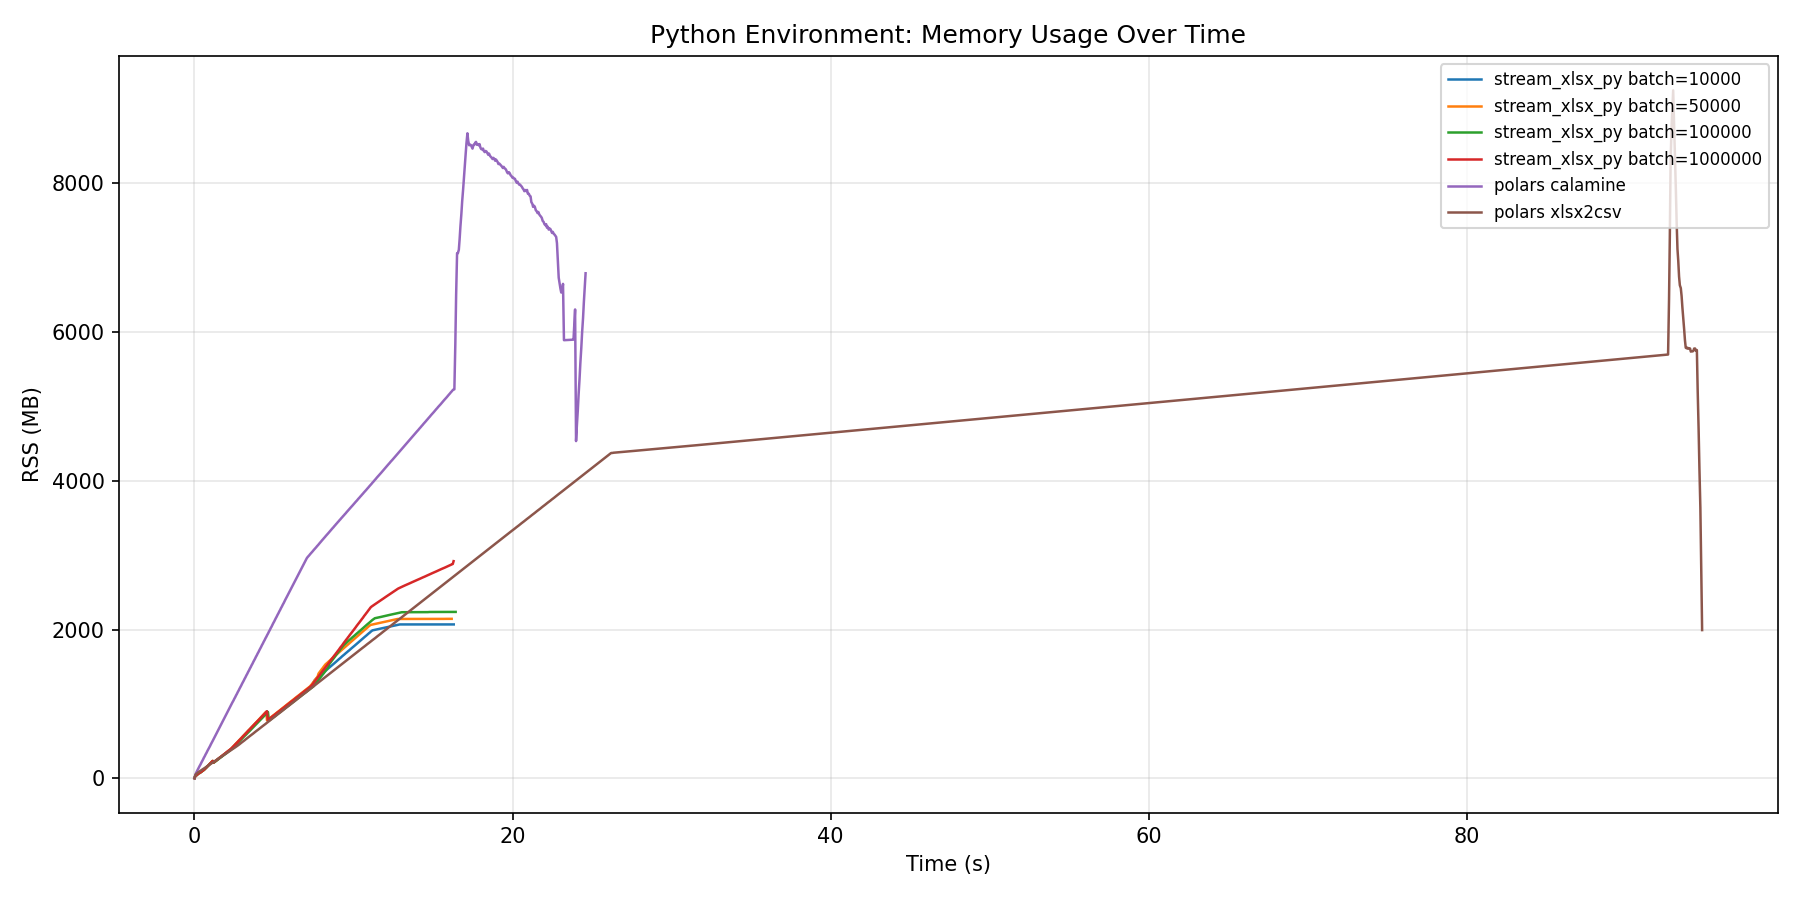
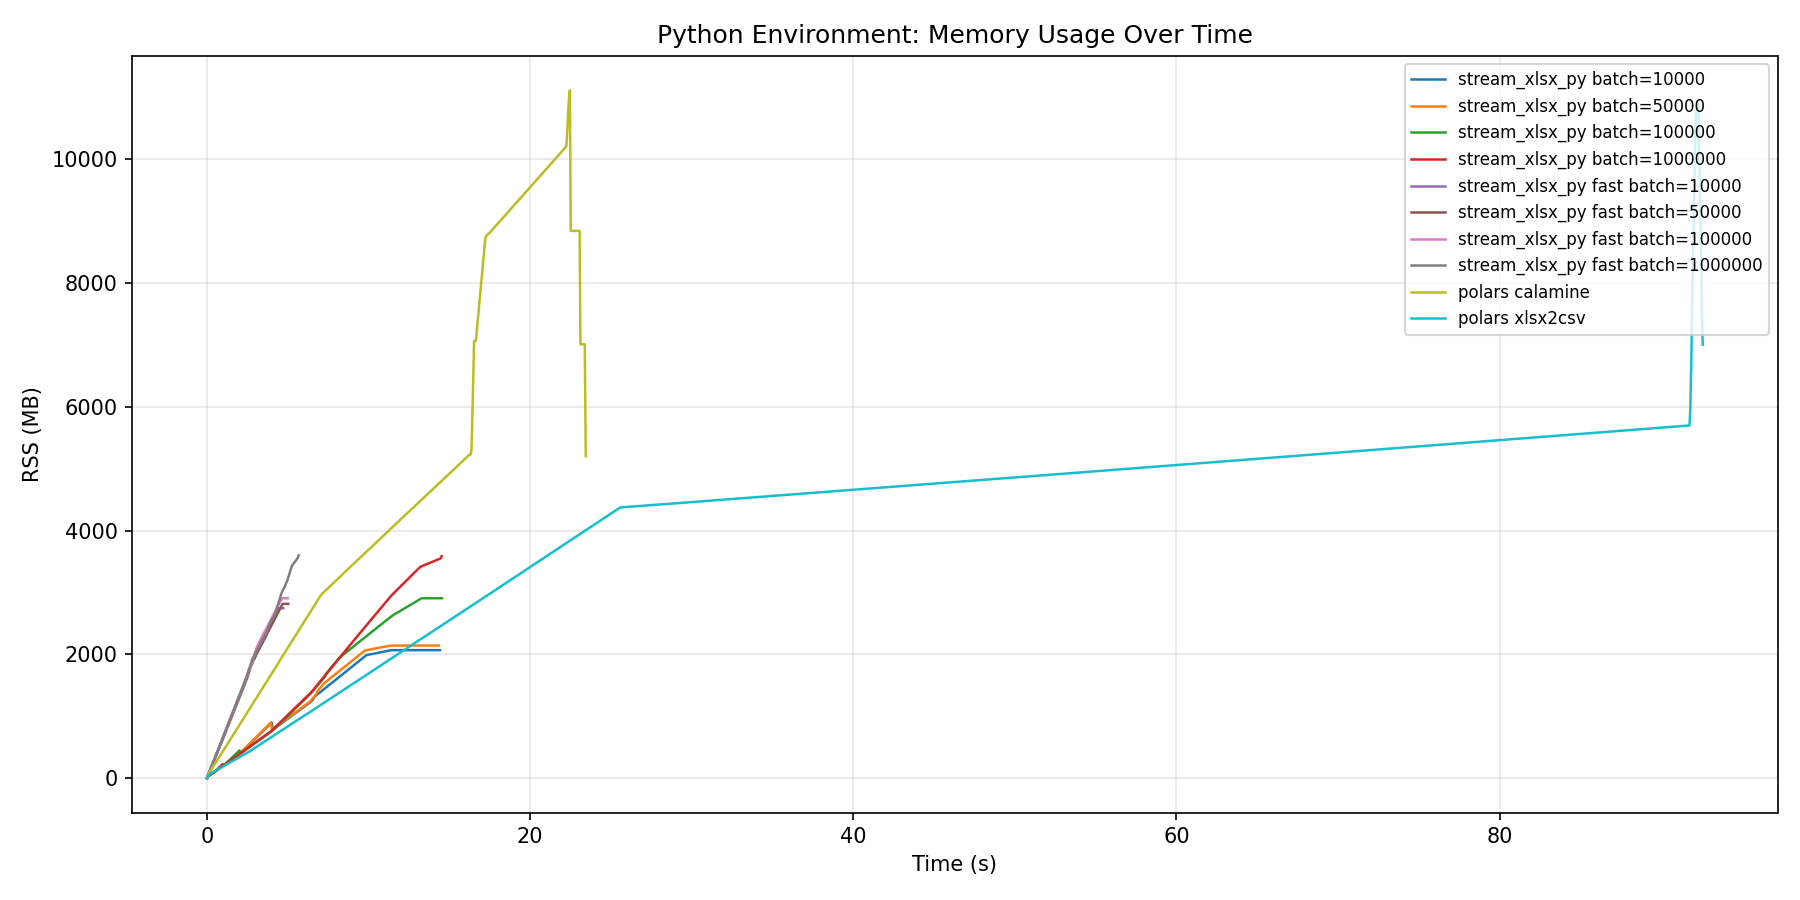
Bump version to 0.3.0 and add fast mode support

diff --git a/benchmark_python.py b/benchmark_python.py
@@ -76,6 +76,15 @@ print("done")
 '''
 
 
+def make_test_code_stream_xlsx_fast(batch_size: int) -> str:
+    return f'''
+import stream_xlsx_py as sx
+for df in sx.read_xlsx("{TEST_FILE}", batch_size={batch_size}, fast=True):
+    pass
+print("done")
+'''
+
+
 def make_test_code_polars(engine: str) -> str:
     return f'''
 import polars as pl
@@ -96,6 +105,19 @@ def main():
     for bs in [10_000, 50_000, 100_000, 1_000_000]:
         name = f"stream_xlsx_py batch={bs}"
         code = make_test_code_stream_xlsx(bs)
+        res = run_subprocess_test(name, code)
+        results.append(res)
+        print(
+            f"    {'✅' if res['returncode'] == 0 else '❌'} {name}: {res['elapsed_sec']:.2f}s  {res['peak_rss_mb']:.1f}MB"
+        )
+        if res["stderr"]:
+            print(f"       stderr: {res['stderr'][:200]}")
+
+    # 1.5 stream_xlsx_py fast 模式
+    print("\n=== stream_xlsx_py fast ===")
+    for bs in [10_000, 50_000, 100_000, 1_000_000]:
+        name = f"stream_xlsx_py fast batch={bs}"
+        code = make_test_code_stream_xlsx_fast(bs)
         res = run_subprocess_test(name, code)
         results.append(res)
         print(
@@ -127,8 +149,8 @@ def main():
     )
 
     # Save data
-    out_dir = Path("benchmark_python_plots")
-    out_dir.mkdir(exist_ok=True)
+    out_dir = Path("docs/benchmark")
+    out_dir.mkdir(parents=True, exist_ok=True)
 
     with open("benchmark_python.json", "w") as f:
         json.dump(results, f, indent=2)

diff --git a/README.md b/README.md
@@ -148,17 +148,23 @@ for df in reader:
 
 | 方案 | 时间 | 峰值内存 | 备注 |
 |------|------|---------|------|
-| **stream_xlsx_py (bs=10000)** | **16.37 s** | **2,068 MB** | 流式,推荐配置 |
-| stream_xlsx_py (bs=50000) | 16.22 s | 2,143 MB | 流式 |
-| stream_xlsx_py (bs=100000) | 16.48 s | 2,237 MB | 流式 |
-| stream_xlsx_py (bs=1000000) | 16.35 s | 2,919 MB | 全量加载 |
-| polars + calamine | 24.66 s | 8,672 MB | `pl.read_excel(engine="calamine")` |
-| polars + xlsx2csv | 95.00 s | 9,249 MB | `pl.read_excel(engine="xlsx2csv")` |
+| **stream_xlsx_py fast (bs=10000)** | **4.77 s** | **2,746 MB** | **推荐:fast + 流式** |
+| stream_xlsx_py fast (bs=50000) | 5.09 s | 2,817 MB | fast + 流式 |
+| stream_xlsx_py fast (bs=100000) | 5.05 s | 2,907 MB | fast + 流式 |
+| stream_xlsx_py fast (bs=1000000) | 5.73 s | 3,599 MB | fast + 全量 |
+| stream_xlsx_py (bs=10000) | 14.48 s | 2,068 MB | default + 流式 |
+| stream_xlsx_py (bs=50000) | 14.40 s | 2,143 MB | default + 流式 |
+| stream_xlsx_py (bs=100000) | 14.59 s | 2,907 MB | default + 流式 |
+| stream_xlsx_py (bs=1000000) | 14.57 s | 3,586 MB | default + 全量 |
+| polars + calamine | 23.50 s | 11,109 MB | `pl.read_excel(engine="calamine")` |
+| polars + xlsx2csv | 92.64 s | 10,902 MB | `pl.read_excel(engine="xlsx2csv")` |
 
 **结论**:
-- `stream_xlsx_py` 比 `polars+calamine` **快 1.5x**,内存 **低 76%**
-- 比 `polars+xlsx2csv` **快 5.8x**,内存 **低 78%**
-- 内存曲线(注意 polars 峰值 8-9 GB vs stream_xlsx_py 稳定 2 GB):
+- **fast 模式比 default 快 ~3x**(14.5s → 4.8s),内存多 ~30% — 与 CLI 行为一致
+- `stream_xlsx_py` (default) 比 `polars+calamine` **快 1.6x**,内存 **低 81%**
+- `stream_xlsx_py fast` 比 `polars+calamine` **快 4.9x**,内存 **低 75%**
+- `stream_xlsx_py fast` 比 `polars+xlsx2csv` **快 19x**,内存 **低 75%**
+- 内存曲线(注意 polars 峰值 11 GB vs stream_xlsx_py 稳定 2-3.6 GB):
 
 ![Python memory usage over time](docs/benchmark/python_memory_comparison.png)
 
@@ -170,6 +176,7 @@ for df in reader:
 | 通用大文件、追求速度 | `fast` + `batch_size=10000` | ~3x faster,内存多 30% |
 | 全量加载到单个 DataFrame | `fast` + `batch_size=1000000` | 一次产出,无 batch 调度 |
 | Python 通用 | `stream_xlsx_py` 默认参数 | 已经过调优,无需额外配置 |
+| Python 性能优先 | `stream_xlsx_py` + `fast=True` | ~3x 加速,内存代价 ~30% |
 
 ## 工作原理
 
